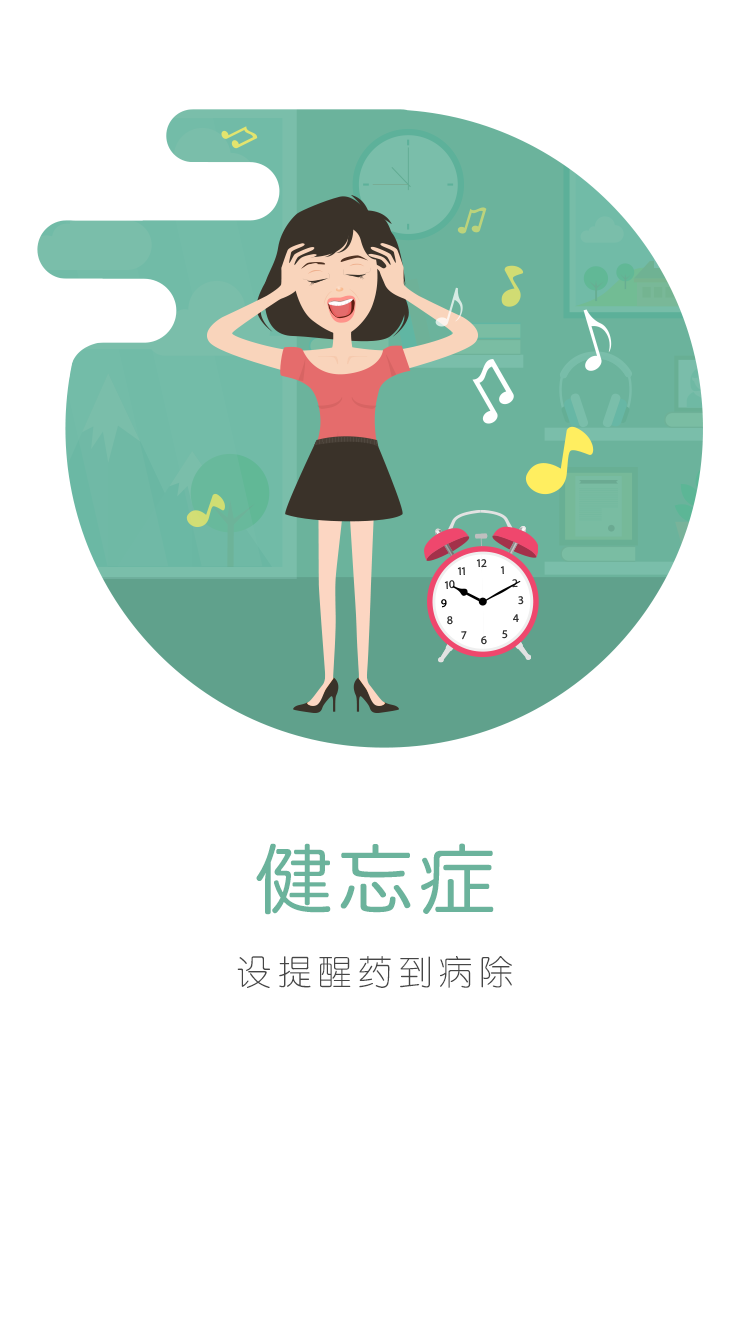
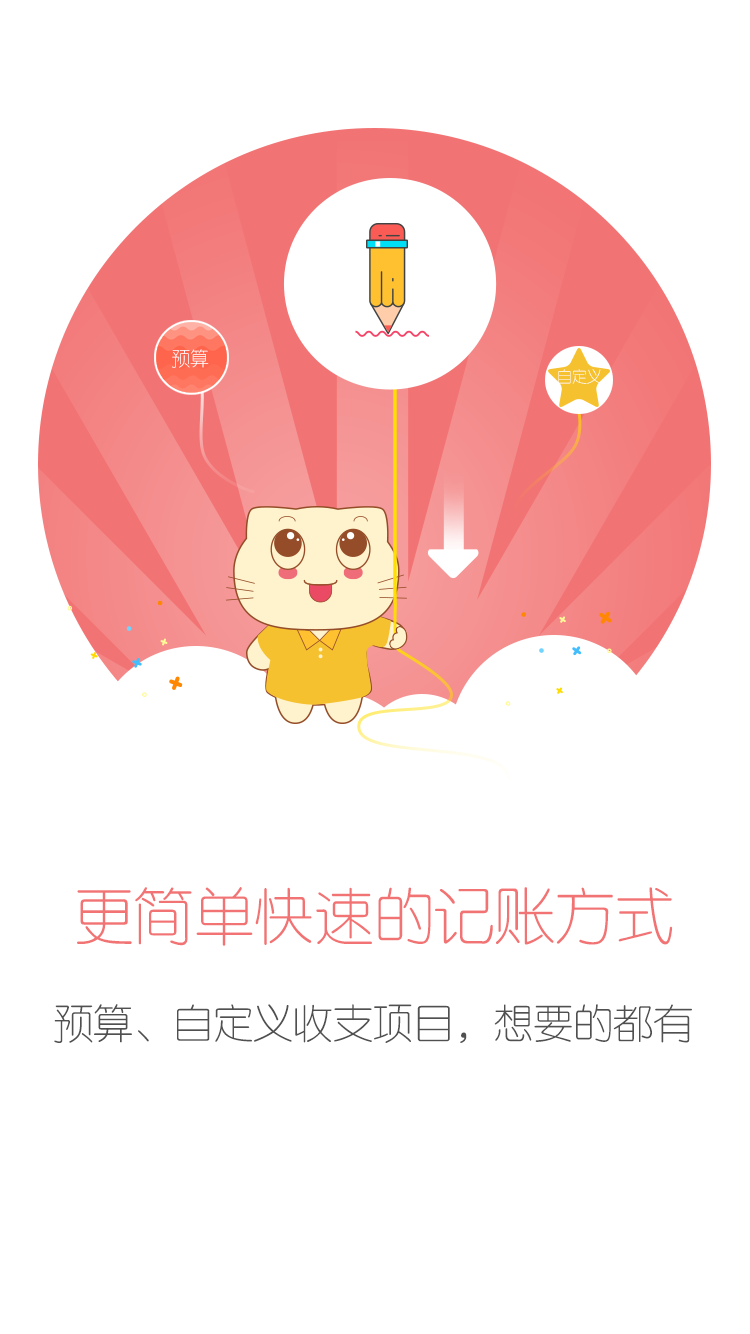
引导页换

diff --git a/SuiShouJi/Module/Common/Guide/SSJGuideView.m b/SuiShouJi/Module/Common/Guide/SSJGuideView.m
@@ -88,8 +88,8 @@
         self.contentViews = [[NSMutableArray alloc] initWithCapacity:4];
     }
     
-    NSArray *images = @[@"guide_1",@"guide_2",@"guide_3"];
-    for (int i = 0; i < 3; i ++) {
+    NSArray *images = @[@"guide_1",@"guide_2",@"guide_3",@"guide_4"];
+    for (int i = 0; i < images.count; i ++) {
         UIImage *image = [UIImage ssj_compatibleImageNamed:images[i]];
         UIImageView *imageView = [[UIImageView alloc] initWithImage:image];
         [self.scrollView addSubview:imageView];
@@ -121,10 +121,9 @@
     if (!_pageControl) {
         _pageControl = [[SSJPageControl alloc] init];
         _pageControl.numberOfPages = self.contentViews.count;
-        _pageControl.pageImage = [[UIImage imageNamed:@"circle"] imageWithRenderingMode:UIImageRenderingModeAlwaysTemplate];
-        _pageControl.currentPageImage = [[UIImage imageNamed:@"solid_circle"] imageWithRenderingMode:UIImageRenderingModeAlwaysTemplate];
+        _pageControl.pageImage = [UIImage imageNamed:@"dian_nor"];
+        _pageControl.currentPageImage = [UIImage imageNamed:@"dian_sel"];
         _pageControl.spaceBetweenPages = 20.0;
-        _pageControl.tintColor = [UIColor ssj_colorWithHex:@"#cccccc"];
         [_pageControl addTarget:self action:@selector(pageControlAction) forControlEvents:UIControlEventValueChanged];
     }
     return _pageControl;
@@ -136,11 +135,11 @@
         [_beginButton setCornerRadius:20];
         [_beginButton setFontSize:18];
         [_beginButton setTitle:@"立即体验" forState:SSJBorderButtonStateNormal];
-        [_beginButton setTitleColor:[UIColor ssj_colorWithHex:@"#0ccdb5"] forState:SSJBorderButtonStateNormal];
+        [_beginButton setTitleColor:[UIColor ssj_colorWithHex:@"#eb4a64"] forState:SSJBorderButtonStateNormal];
         [_beginButton setTitleColor:[UIColor whiteColor] forState:SSJBorderButtonStateHighlighted];
-        [_beginButton setBorderColor:[UIColor ssj_colorWithHex:@"#0ccdb5"] forState:SSJBorderButtonStateNormal];
+        [_beginButton setBorderColor:[UIColor ssj_colorWithHex:@"#eb4a64"] forState:SSJBorderButtonStateNormal];
         [_beginButton setBackgroundColor:[UIColor whiteColor] forState:SSJBorderButtonStateNormal];
-        [_beginButton setBackgroundColor:[UIColor ssj_colorWithHex:@"#0ccdb5"] forState:SSJBorderButtonStateHighlighted];
+        [_beginButton setBackgroundColor:[UIColor ssj_colorWithHex:@"#eb4a64"] forState:SSJBorderButtonStateHighlighted];
         [_beginButton addTarget:self action:@selector(beginButtonAciton)];
     }
     return _beginButton;

diff --git a/SuiShouJi/Module/More/MagicExport/Controller/SSJMagicExportViewController.m b/SuiShouJi/Module/More/MagicExport/Controller/SSJMagicExportViewController.m
@@ -67,6 +67,7 @@
 - (instancetype)initWithNibName:(NSString *)nibNameOrNil bundle:(NSBundle *)nibBundleOrNil {
     if (self = [super initWithNibName:nibNameOrNil bundle:nibBundleOrNil]) {
         self.navigationItem.title = @"数据导出";
+        self.hidesBottomBarWhenPushed = YES;
     }
     return self;
 }
